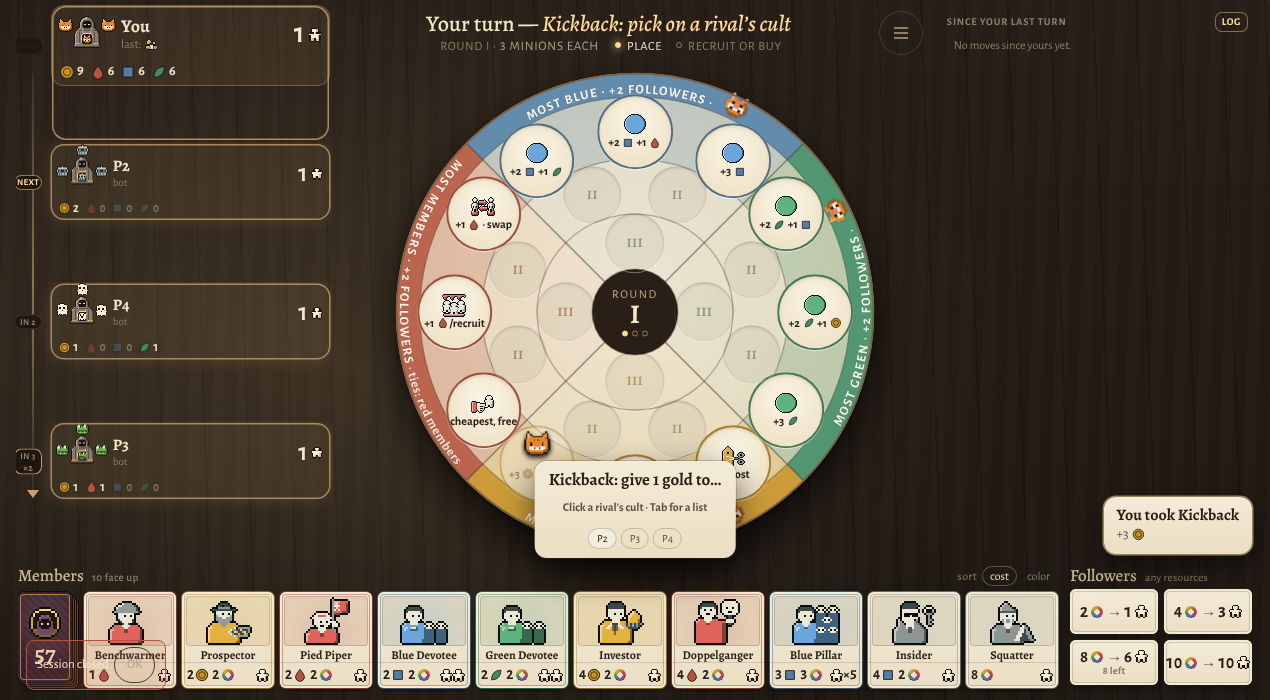
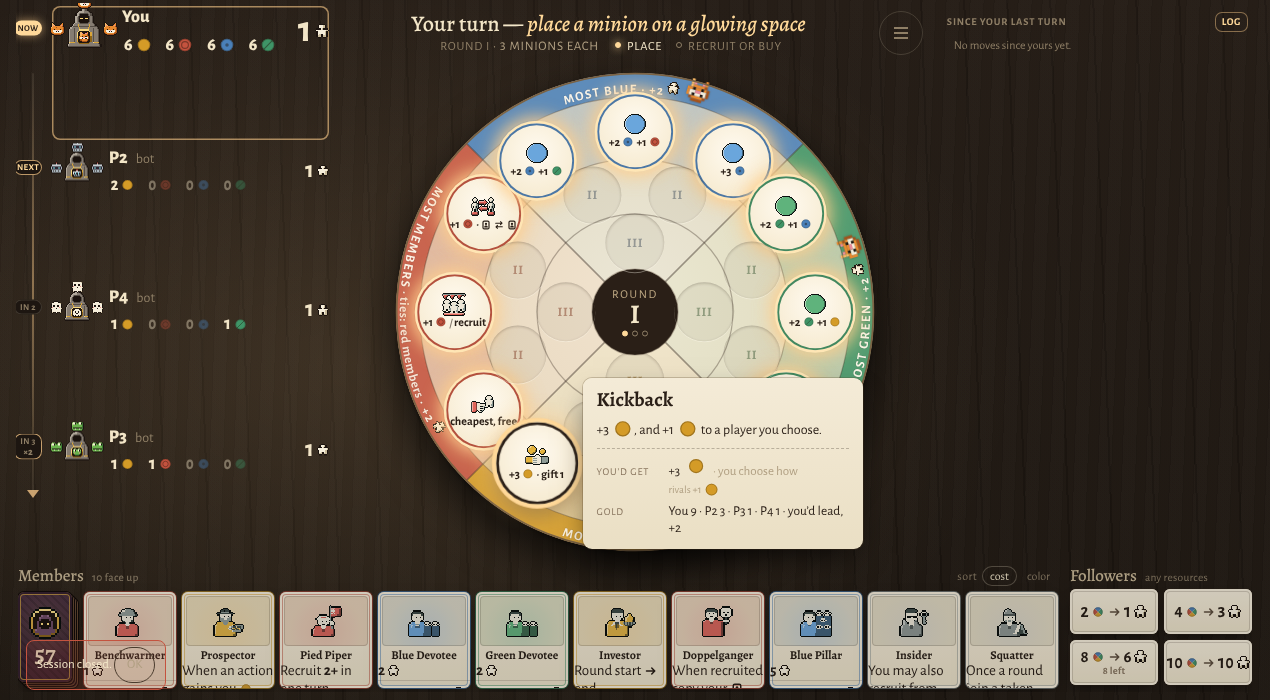
How we work: checkpoints go to the PR branch (Cory)
Claude-Session: https://claude.ai/code/session_017rw3aQa9iJEjdvvwQLY84z

diff --git a/src/v4/game/Wheel.jsx b/src/v4/game/Wheel.jsx
@@ -1,7 +1,11 @@
 // The board: a printed paper wheel of 4 quadrants (the Lamplit Table). Outer ring = round I, middle = round II,
 // inner = round III. It still spins (drag, arrow keys, a sideways swipe), but everything on it stays upright and
-// nothing else on screen changes with its orientation. Two looks for the spaces (Cory picks; `?spaces=engraved`):
-//  - sockets (default): each space is a cream socket with its picture, name and yield;
+// nothing else on screen changes with its orientation. The looks for the spaces (`?spaces=<look>`):
+//  - panels (default; the visual language, plate 1b, design/prototypes/language/): a dark board where each ring's
+//    spaces tile their quadrant as flat paper wedges, each with the action's small picture above its effect (the
+//    number first and biggest) and one line of small print where the big line can't say it all. No names. Taken: the
+//    panel dims and the minion stands where the picture was. Locked: a faint outline, "opens in round N".
+//  - sockets (`?spaces=sockets`, the old look until Cory has played the new one): a cream socket per space;
 //  - engraved (design/prototypes/actions option 3): each space is a cell of its ring printed into the paper, washed
 //    in the quadrant's ink, with a one-ink stamp of its picture, its name in small capitals and its yield beneath.
 //  - any face in ./faces/ (`?spaces=<name>`, lab: `?lab=faces&face=<name>`): the face draws inside each space's box;
@@ -26,6 +30,9 @@ import { Rich } from './Rich.jsx';
 import { shortEffect, pipEffect } from '../shorts.js';
 import { Follower } from '../art/Follower.jsx';
 import { lookFromUrl, useFace, boxOf, faceStatus, FaceBox, BUILT_IN } from './faces/index.js';
+import { panelText, fineText } from './panelText.js';
+import { Mark, Op, ResourceGlyph } from './Glyphs.jsx';
+import { Pip } from './Rich.jsx';
 import { MO, spinEase } from '../motion.js';
 
 // sockets: discs toward the outer edge of their ring, so a name never runs into a neighbour at any board size
@@ -33,7 +40,10 @@ const RING_S = { 1: { r0: 128, r1: 180, r: 151, n: 3, span: 66 }, 2: { r0: 82, r
 // engraved: the cells tile each quadrant (ring I: three 30° cells, ring II: two 45° cells, ring III: one 90° cell)
 // (the hub shrinks so the one wide ring-III cell can hold its name, stamp and yield at 12px or more)
 const RING_E = { 1: { r0: 126, r1: 180, r: 153, n: 3, span: 60 }, 2: { r0: 78, r1: 126, r: 102, n: 2, span: 45 }, 3: { r0: 22, r1: 78, r: 51, n: 1, span: 0 } };
-const ringsOf = look => (look === 'engraved' ? RING_E : RING_S);
+// panels: the cells tile each quadrant like engraved's, on a dark board with gutters between them; r is where each
+// panel's print is centred (ring III's a little out from the middle of its wedge, where the wedge is wide)
+const RING_P = { 1: { r0: 130, r1: 179, r: 154.5, n: 3, span: 60 }, 2: { r0: 79, r1: 127, r: 103, n: 2, span: 45 }, 3: { r0: 25, r1: 75, r: 53, n: 1, span: 0 } };
+const ringsOf = look => (look === 'engraved' ? RING_E : look === 'panels' ? RING_P : RING_S);
 const RIM = { r0: 180, r1: 200, r: 190 }; // the rim band: each quadrant's rule, engraved
 // the rim's hover/tap target: from just outside ring I's sockets to well past the paper's edge (it wins over any space)
 const RIM_HIT = { r0: 181, r1: 216 };
@@ -152,6 +162,128 @@ export const clauses = text => String(text || '').split(/ · |, (?=\S)| (?=[+−
  *  → ⇄ ↻ × and a joined "/" (per). Every mark is drawn once, in Glyphs.jsx, and shared with every other text. */
 export function Marked({ text }) {
   return <Rich text={String(text || '')} />;
+}
+
+// ---------- panels (the default look): the visual language's flat wedges, plate 1b ----------
+const PANEL_GUT = 4, PANEL_RC = 4; // the gutter between neighbouring panels and their corner, in board units
+/** A ring cell as the plate draws it: straight, parallel gutters (`gut` wide) and rounded corners (`rc`). */
+function panelPath(a0, a1, r0, r1, gut = PANEL_GUT, rc = PANEL_RC) {
+  const h = gut / 2, deg = x => (x * 180) / Math.PI;
+  const s0 = r => a0 + deg(Math.asin(h / r)), s1 = r => a1 - deg(Math.asin(h / r));
+  const O0 = polar(s0(r1), r1), O1 = polar(s1(r1), r1), I1 = polar(s1(r0), r0), I0 = polar(s0(r0), r0);
+  const along = (A, B, d) => { const L = Math.hypot(B[0] - A[0], B[1] - A[1]); return [A[0] + ((B[0] - A[0]) * d) / L, A[1] + ((B[1] - A[1]) * d) / L]; };
+  const f = p => `${p[0].toFixed(2)} ${p[1].toFixed(2)}`;
+  return ['M', f(along(I0, O0, rc)), 'L', f(along(O0, I0, rc)),
+    'Q', f(O0), f(polar(s0(r1) + deg(rc / r1), r1)),
+    'A', r1, r1, 0, 0, 1, f(polar(s1(r1) - deg(rc / r1), r1)),
+    'Q', f(O1), f(along(O1, I1, rc)),
+    'L', f(along(I1, O1, rc)),
+    'Q', f(I1), f(polar(s1(r0) - deg(rc / r0), r0)),
+    'A', r0, r0, 0, 0, 0, f(polar(s0(r0) + deg(rc / r0), r0)),
+    'Q', f(I0), f(along(I0, O0, rc)), 'Z'].join(' ');
+}
+/** The widest upright box of height h centred at (cx, cy) that stays `pad` clear of a panel's edges (radii r0..r1,
+ *  angles a0..a1 in degrees, 0 = top, clockwise, as it sits on screen). Board units; the half-width comes back. */
+export function fitHalfWidth(cx, cy, h, r0, r1, a0, a1, pad) {
+  const t0 = ((a0 - 90) * Math.PI) / 180, t1 = ((a1 - 90) * Math.PI) / 180;
+  const u0 = [Math.cos(t0), Math.sin(t0)], u1 = [Math.cos(t1), Math.sin(t1)];
+  const ok = (x, y) => {
+    const dx = x - CX, dy = y - CY, r = Math.hypot(dx, dy);
+    if (r < r0 + pad || r > r1 - pad) return false;
+    return u0[0] * dy - u0[1] * dx >= pad && u1[0] * dy - u1[1] * dx <= -pad;
+  };
+  const fits = w => {
+    for (let k = 0; k <= 6; k++) {
+      const x = cx - w + (2 * w * k) / 6, y = cy - h / 2 + (h * k) / 6;
+      if (!ok(x, cy - h / 2) || !ok(x, cy + h / 2) || !ok(cx - w, y) || !ok(cx + w, y)) return false;
+    }
+    return true;
+  };
+  if (!fits(0.5)) return 0;
+  let lo = 0.5, hi = 110;
+  for (let k = 0; k < 18; k++) { const m = (lo + hi) / 2; if (fits(m)) lo = m; else hi = m; }
+  return lo;
+}
+
+const PANEL_RES = new Set(['gold', 'red', 'blue', 'green', 'magenta', 'silver', 'yellow', 'purple', 'white', 'any']);
+const PANEL_MARK = { '@m': 'member', '@r': 'rival', '@n': 'minion', '@t': 'turn' };
+const PANEL_TOK = /@[mrfnt]|[+−-]?\d+|×(?:\d+|½)|½|≤\d+|[/→⇄·]|[A-Za-z’'?;,.!-]+|\s+|./g;
+const tokKind = t => (/^\s+$/.test(t) ? 'sp' : /^(?:[+−-]?\d+|×(?:\d+|½)|½|≤\d+)$/.test(t) ? 'n' : t === '/' || t === '·' ? 'op'
+  : t === '→' || t === '⇄' || PANEL_MARK[t] || t === '@f' || PANEL_RES.has(t) ? 'g' : 'w');
+const panelToks = text => [...String(text || '').matchAll(PANEL_TOK)].map(m => m[0]);
+/** One line of a panel in the grammar's form: numbers heavy, resources as dots, @m/@r/@n/@t/@f as marks, / and ×
+ *  typed quietly; a number sits right against the glyph it counts ("+3●"). */
+export function Said({ text }) {
+  const toks = panelToks(text);
+  const out = [];
+  toks.forEach((t, k) => {
+    const kind = tokKind(t);
+    if (kind === 'sp') {
+      const pk = k ? tokKind(toks[k - 1]) : null, nk = k + 1 < toks.length ? tokKind(toks[k + 1]) : null;
+      if (pk && nk && pk !== 'op' && nk !== 'op' && !(pk === 'n' && nk === 'g')) out.push(' ');
+      return;
+    }
+    if (kind === 'n') out.push(<b key={k} className="n">{t}</b>);
+    else if (kind === 'op') out.push(<Op key={k} t={t} />);
+    else if (t === '→') out.push(<Mark key={k} k="arrow" />);
+    else if (t === '⇄') out.push(<Mark key={k} k="swap" />);
+    else if (PANEL_MARK[t]) out.push(<Mark key={k} k={PANEL_MARK[t]} />);
+    else if (t === '@f') out.push(<Follower key={k} size={12} title="follower" />);
+    else if (PANEL_RES.has(t)) out.push(<Pip key={k} color={t} />);
+    else out.push(t);
+  });
+  return <>{out}</>;
+}
+/** A line's width in ems of its own type (the font measured once per word, a glyph .9em, a gap .25em). */
+function saidEm(text, weight = 700) {
+  let w = 0;
+  const toks = panelToks(text);
+  toks.forEach((t, k) => {
+    const kind = tokKind(t);
+    if (kind === 'sp') w += 0.25;
+    else if (kind === 'g') w += 0.92;
+    else if (kind === 'op') w += 0.55;
+    else w += rimWidth(t, kind === 'n' ? 800 : weight, 0);
+    if (kind === 'sp' && k && tokKind(toks[k - 1]) === 'n' && k + 1 < toks.length && tokKind(toks[k + 1]) === 'g') w -= 0.25;
+  });
+  return w;
+}
+// the type and the picture on a panel, in screen pixels (the number at least 16, the small print at least 12)
+const PANEL_PX = { pic: 20, big: 20, bigMin: 16, fine: 12, fineLine: 13, gap: 2 };
+/**
+ * How a panel's print lays out in the room it has: the big line on one line or a clause a line, the small print on
+ * one or two lines or not at all (it's always in the hover). Returns { bigLines, fineLines, big (px), w (board
+ * units: the box's width) }. `k` is screen pixels per board unit.
+ */
+function panelLayout({ s, R, rot, k, big, fine }) {
+  const [x0, y0] = polar(s.ang, R.r);
+  const r = (rot * Math.PI) / 180;
+  const cx = CX + (x0 - CX) * Math.cos(r) - (y0 - CY) * Math.sin(r), cy = CY + (x0 - CX) * Math.sin(r) + (y0 - CY) * Math.cos(r);
+  const a0 = s.ang - s.half + rot, a1 = s.ang + s.half + rot;
+  const pad = PANEL_GUT / 2 + 2.5;
+  const room = hPx => 2 * fitHalfWidth(cx, cy, hPx / k, R.r0, R.r1, a0, a1, pad);
+  const clauseList = clauses(big);
+  const bigEm = saidEm(big, 500), clauseEm = Math.max(...clauseList.map(c => saidEm(c, 500)));
+  const fineEm = fine ? saidEm(fine, 700) : 0;
+  const longestWord = fine ? Math.max(...String(fine).split(/\s+/).map(t => saidEm(t, 700))) : 0;
+  const { pic, gap, fineLine } = PANEL_PX;
+  const tries = [];
+  for (const bp of [PANEL_PX.big, 18, PANEL_PX.bigMin]) {
+    for (const bl of clauseList.length > 1 ? [1, 2] : [1]) {
+      for (const fl of fine ? [1, 2, 0] : [0]) tries.push({ bp, bl, fl });
+    }
+  }
+  // prefer the biggest number, then the small print shown, then fewer lines
+  tries.sort((a, b) => b.bp - a.bp || (b.fl > 0) - (a.fl > 0) || a.bl - b.bl || a.fl - b.fl);
+  for (const t of tries) {
+    const h = pic + gap + t.bl * t.bp + (t.fl ? gap + t.fl * fineLine : 0);
+    const needBig = (t.bl === 1 ? bigEm : clauseEm) * t.bp;
+    const needFine = t.fl === 0 ? 0 : t.fl === 1 ? fineEm * PANEL_PX.fine : Math.max(longestWord, fineEm * 0.62) * PANEL_PX.fine;
+    const w = room(h + 4) * k;
+    if (w >= Math.max(needBig, needFine, pic) + 2) return { bigLines: t.bl, fineLines: t.fl, big: t.bp, w: w / k };
+  }
+  const t = tries[tries.length - 1];
+  return { bigLines: clauseList.length > 1 ? 2 : 1, fineLines: 0, big: PANEL_PX.bigMin, w: Math.max(room(pic + gap + 2 * t.bp), 20 / k) / (1 || 1) };
 }
 
 // Is the person driving with the keyboard? Focus moved to a space on its own (your turn begins) opens its card only

diff --git a/src/v4/shorts.js b/src/v4/shorts.js
@@ -4,43 +4,44 @@
 // Keys are "<sphere id>.<action key>". A space with no entry here falls back to its first clause (shortEffect).
 const S = {
   gold: {
-    jv: '+3 gold · gift 1', rush: r => `+${2 * r} gold`, discount: '−4 cost', steal: 'steal 3 gold', windfall: '+1 gold/member', strike: 'double gold',
+    jv: '+3 gold · gift 1', rush: r => `+${2 * r} gold`, discount: '−4 cost', steal: 'steal 3 gold', windfall: '+1 gold/@m', strike: '×2 gold',
   },
   red: {
-    evenswap: '+1 red · swap', turnout: '+1 red/recruit', hire: 'cheapest, free', hireup: 'member ≤4, free', trade: 'swap a member', take: 'any member, free',
+    evenswap: '+1 red · @m ⇄ @m', turnout: '+1 red/recruit', hire: 'cheapest, free', hireup: '@m ≤4, free', trade: '@m ⇄ @r', take: 'any @m, free',
   },
   blue: { a1: '+3 blue', a2: '+2 blue +1 red', a3: '+2 blue +1 green', a4: '+5 blue', a5: '+4 blue +1 gold', a6: '+8 blue' },
   green: { a1: '+3 green', a2: '+2 green +1 gold', a3: '+2 green +1 blue', a4: '+5 green', a5: '+4 green +1 red', a6: '+8 green' },
   purple: {
-    hourly: r => `+${3 + r} purple`, catchup: '+1 purple, +2/rival', windup: '+1 purple/minion', planahead: '+1 purple/left', overtime: 'pay 8: 2 turns', rally: 'purple → turns',
+    hourly: r => `+${3 + r} purple`, catchup: '+1 purple, +2/@r', windup: '+1 purple/@n', planahead: '+1 purple/left', overtime: '8 purple → @t@t', rally: 'purple → @t',
   },
   silver: {
-    toast: r => `+${3 * r} silver · all +1`, gift: '+2 silver +2 · share', alms: '+4 silver · give 2', tongue: '+4 silver · swap', tide: 'half the richest', jubilee: 'silver → followers',
+    toast: r => `+${3 * r} silver · all +1`, gift: '+2 silver +2 · share', alms: '+4 silver · give 2', tongue: '+4 silver · swap', tide: 'half the richest', jubilee: 'silver → @f',
   },
   yellow: {
     harvest: '+1 yellow/color', bloom: '+1 each missing', transmute: 'swap 3 · +1 yellow', prism: '+1 each/3 yellow', gather: '1 per member', flourish: '+1 each/set',
   },
   market: {
-    bargain: '+2 blue · recruit', restock: '+2 blue · new row', showroom: '+1 blue, +1/face-up blue', clearance: 'half-price buy', pricecheck: 'blue = ½ priciest', spree: 'buy 3 times',
+    bargain: '+2 blue · recruit', restock: '+2 blue · new row', showroom: '+1 blue, +1/face-up blue', clearance: 'half-price buy', pricecheck: 'blue = ½ priciest', spree: 'buy ×3',
   },
   thieves: {
     pickpocket: r => `steal ${r + 1}`, tipoff: 'steal 1 each richer', hideout: 'steal 1 · safe', rob: 'steal 3', ransom: 'ransom a member', heist: 'steal a member',
   },
   trading: {
-    haggle: '+2 white +1/leader', buylow: r => `${2 * r} → followers`, pawn: r => `${r} follower or +${2 * r} white`, sellhigh: 'sell 2 for 6 white', dividend: '+1 white/loose follower', boom: 'all → followers',
+    haggle: '+2 white +1/leader', buylow: r => `${2 * r} → @f`, pawn: r => `${r} follower or +${2 * r} white`, sellhigh: 'sell 2 for 6 white', dividend: '+1 white/loose follower', boom: 'all → @f',
   },
   echo: { hum: '+3 green', chant: r => `+${2 * r} green`, echo: 'copy a rival', encore: 'copy any', refrain: '+2 green · copy yours', eternity: 'copy all yours' },
 };
 
 // The shortest form, for the engraved look's narrow inner rings: pips and marks instead of words wherever a glyph
-// will do. @m is a member, @r a rival, @f a follower (Wheel draws them); resource words still become pips.
+// will do. @m is a member, @r a rival, @f a follower, @n a minion, @t an extra turn; → ⇄ × and a joined / (per)
+// are the plate's marks too (Rich draws them all); resource words still become pips.
 const PIPS = {
   gold: { steal: '@r → 3 gold', windfall: '+1 gold/@m', strike: '×2 gold' },
   red: { hireup: '@m ≤4 free', trade: '@m ⇄ @r', take: 'any @m free' },
-  purple: { overtime: '8 purple → 2 turns' },
+  purple: { overtime: '8 purple → @t@t' },
   silver: { tide: '½ richest', jubilee: 'silver → @f' },
   yellow: { gather: '+1/@m' },
-  market: { clearance: '½ price', spree: '3 buys' },
+  market: { clearance: '½ price', spree: 'buy ×3' },
   thieves: { rob: '@r → 3 any', ransom: 'ransom @m', heist: 'take @r @m' },
   trading: { sellhigh: '2 @f → 6 white', dividend: '+1 white/@f', boom: 'all → @f' },
   echo: { refrain: '+2 green · copy', eternity: 'copy all' },

diff --git a/src/v4/lamp.css b/src/v4/lamp.css
@@ -95,6 +95,28 @@ h1,h2,h3{font-family:var(--serif)}
     transform:translateY(calc(var(--slot, 0) * (100% + 6px)));transition:transform var(--mo-sort, .6s) cubic-bezier(.3,.7,.4,1),box-shadow var(--mo-dim, .3s),background var(--mo-dim, .3s);
     /* clipped to its slot, except the rail gutter on its left where its turn marker sits */
     min-height:0;min-width:0;overflow:visible;clip-path:inset(-3px -3px -3px -36px);border-radius:14px;padding:5px 7px;background:rgba(243,230,200,.03);box-shadow:inset 0 0 0 1px rgba(243,230,200,.07);transition:box-shadow var(--mo-dim),background var(--mo-dim)}
+  /* each chair as the approved plate's seat panel (design/prototypes/language/plate1b.png): the seat ground, an 8px
+     corner, a hairline; the leader beside the name and what it holds (number, then dot), the total big on the right;
+     then its members, then what they make each round and what it just took */
+  .lt > .lt-seat{background:var(--seat, #221a15);box-shadow:inset 0 0 0 1px var(--hair, rgba(242,232,210,.10));border-radius:8px;padding:8px 12px}
+  .lt > .lt-seat.now{background:color-mix(in srgb,var(--seat, #221a15) 88%,rgb(var(--lamp)));box-shadow:inset 0 0 0 1px rgba(var(--lamp),.45)}
+  .lt > .lt-seat > .lt-cult-seat{display:grid;grid-template-columns:auto minmax(0,1fr) auto;grid-template-rows:auto auto;column-gap:10px;row-gap:6px;align-items:center;
+    padding:0;background:none;box-shadow:none;max-width:none}
+  .lt > .lt-seat .cs-head{grid-column:1 / -1;grid-row:1 / 3;display:grid;grid-template-columns:subgrid;grid-template-rows:subgrid;align-items:center;min-height:0}
+  .lt > .lt-seat .cs-head .cs-leader{grid-column:1;grid-row:1 / 3}
+  .lt > .lt-seat .cs-head .cs-who{grid-column:2;grid-row:1;flex-direction:row;align-items:baseline;gap:8px}
+  .lt > .lt-seat .cs-head .cs-total{grid-column:3;grid-row:1 / 3;align-self:center}
+  .lt > .lt-seat .cs-foot{grid-column:2 / 4;grid-row:2;z-index:1;justify-self:start;pointer-events:auto}
+  .lt > .lt-seat .cs-crowd{grid-column:1 / -1;grid-row:3}
+  .lt > .lt-seat .cs-build{grid-column:1 / -1;grid-row:4}
+  .lt > .lt-seat .cs-who b{font-family:var(--sans);font-weight:800;font-size:18px;line-height:22px}
+  .lt > .lt-seat .cs-who small{font-size:14px;color:var(--cream-3)}
+  .lt > .lt-seat .cs-total{font-family:var(--sans);font-weight:800;font-size:20px;letter-spacing:-.01em}
+  .lt > .lt-seat.mine .cs-total{font-size:32px}
+  .lt > .lt-seat .cs-res{gap:14px}
+  .lt > .lt-seat .cs-stack{flex-direction:row-reverse;gap:3px;font-family:var(--sans);font-weight:800;font-size:16px}
+  .lt > .lt-seat.mine .cs-stack{font-size:18px}
+  .lt > .lt-seat .cs-stack.zero{opacity:.4}
   /* the right column: the turns since yours, from the top (the turn card tells the live turn at its foot) */
   .app.game.lt > .lt-since{grid-column:3;grid-row:1 / 4;align-self:start;max-height:calc(100% - 120px)}
   /* you, wherever you land: a cream edge */

diff --git a/src/v4/game/faces/index.js b/src/v4/game/faces/index.js
@@ -70,13 +70,16 @@
 //                 degrees (0 = top, clockwise), radii from the wheel's centre (200,200), in WHEEL coordinates, not
 //                 the box's, unturned (the wheel turns it). For cells, cups, washes, hatching. No text: it turns.
 //
-// Built-in looks: 'sockets' (the default: nothing changes for players) and 'engraved' stay drawn by the Wheel itself.
+// Built-in looks, drawn by the Wheel itself: 'panels' (the default since 2026-10-15: plate 1b's flat wedge panels),
+// 'sockets' (the old look, kept until Cory has played the new one) and 'engraved'.
 // ============================================================================================================
 
 import { createElement, useEffect, useState } from 'react';
 
 /** The looks the Wheel draws itself. */
-export const BUILT_IN = ['sockets', 'engraved'];
+export const BUILT_IN = ['sockets', 'engraved', 'panels'];
+/** The look a table wears when `?spaces=` names none. */
+export const DEFAULT_LOOK = 'panels';
 
 /** The default box per ring, in board units (today's socket sizes). */
 export const DEFAULT_BOX = { 1: [60, 60], 2: [46, 46], 3: [50, 50] };
@@ -91,12 +94,12 @@ export const FACES = loaders;
 export const faceNames = () => [...BUILT_IN, ...Object.keys(loaders).sort()];
 export const isFace = name => !!name && Object.prototype.hasOwnProperty.call(loaders, name);
 
-/** Which look the spaces wear: `?spaces=<name>` when it names a built-in or a face file, else 'sockets'. */
+/** Which look the spaces wear: `?spaces=<name>` when it names a built-in or a face file, else the default (panels). */
 export function lookFromUrl() {
   try {
     const v = new URLSearchParams(globalThis.location?.search || '').get('spaces');
-    return v && (BUILT_IN.includes(v) || isFace(v)) ? v : 'sockets';
-  } catch { return 'sockets'; }
+    return v && (BUILT_IN.includes(v) || isFace(v)) ? v : DEFAULT_LOOK;
+  } catch { return DEFAULT_LOOK; }
 }
 
 const loaded = new Map();

diff --git a/src/v4/game/CultSeat.jsx b/src/v4/game/CultSeat.jsx
@@ -55,7 +55,7 @@ export default function CultSeat({ state, pid, me = null, mine = false, now = fa
         onPointerLeave={e => { if (e.pointerType === 'mouse' && hover) hover.onSeatHover(pid, null); }}
         onClick={e => openSeat(e, true)}
         onKeyDown={e => { if (e.key === 'Enter' || e.key === ' ') { e.preventDefault(); openSeat(e, true); } }}>
-        <span className={`cs-leader${react && react.leader ? ` react-${react.leader}` : ''}`}><LeaderRing state={state} id={pid} size={mine ? 32 : 28} minion={mine ? 15 : 13} compact /></span>
+        <span className={`cs-leader${react && react.leader ? ` react-${react.leader}` : ''}`}><LeaderRing state={state} id={pid} size={mine ? 40 : 30} minion={mine ? 15 : 13} compact /></span>
         <span className="cs-who">
           <b>{mine ? 'You' : p.name}</b>
           {place && <span className={`cs-order ${place.label.replace(' ', '-')}${place.twice ? ' twice' : ''}`} data-order={place.label} data-twice={place.twice ? '1' : undefined} title={place.title}><span className="co-t">{place.label}</span>{place.twice && <b className="co-x">×2</b>}</span>}
@@ -111,7 +111,7 @@ export default function CultSeat({ state, pid, me = null, mine = false, now = fa
             </span>
           )}
           {last && (
-            <span className="cs-took" data-took={last.name} title={`${mine ? 'You' : p.name} last took ${last.name} (${quadrant(last.qid).name})`}>
+            <span className="cs-last" data-took={last.name} title={`${mine ? 'You' : p.name} last took ${last.name} (${quadrant(last.qid).name})`}>
               <small>{mine ? 'you took' : 'just took'}</small><Sprite id={[`${last.qid}.${actionKey(last)}`, spriteId(last.name)]} kind="action" sphere={quadrant(last.qid).resource} size={12} title={last.name} /><b>{last.name}</b>
             </span>
           )}

diff --git a/src/v4/game/lamp-b.css b/src/v4/game/lamp-b.css
@@ -333,3 +333,11 @@
 .seat-card .seat-rank{font-size:12px;color:var(--paper-ink-3)}
 /* the rim's standings card opens with what its prize pays, in words */
 .lt-prize-line{margin:0 0 6px;font-size:13px;line-height:1.35;font-weight:700}
+
+/* a chair's build row (the plate's rival panel): what its members make each round, and what it just took */
+.lt-cult-seat .cs-build{display:flex;align-items:center;gap:14px;min-width:0;white-space:nowrap}
+.lt-cult-seat .cs-build .cs-income{margin-left:0}
+.lt-cult-seat .cs-build small{font-size:12.5px;font-weight:500;letter-spacing:0;color:var(--cream-3)}
+.lt-cult-seat .cs-build .cs-inc b{font-weight:800;font-size:15px;color:var(--cream)}
+.lt-cult-seat .cs-last{display:inline-flex;align-items:center;gap:5px;margin-left:auto;min-width:0;cursor:help}
+.lt-cult-seat .cs-last b{font-size:14px;font-weight:700;color:var(--cream);overflow:hidden;text-overflow:ellipsis}

diff --git a/.claude/rules/working-with-cory.md b/.claude/rules/working-with-cory.md
@@ -84,3 +84,4 @@ Reply style lives in the **Foreman** output style (`.claude/output-styles/forema
 - 2026-10-15 — Cory rejected three action looks and the card pod: "just variations on what exists … slapdash". Visual design never starts from today's components. Language first (a closed set of symbols and how they combine, type, grid), then ONE plate polished to the pixel and self-critiqued at 2×, then Cory. Agents handed the existing UI only produce variations of it.
 - 2026-10-15 — Cory: "what are the agents even critiquing?" Ten minutes of his play found ~24 things the AI panels missed. Diagnosis (design/eval/critic-calibration/diagnosis.md): testers drove the DOM, acted at agent speed with bots on Fast, wrote "top 8", and judged correctness instead of taste; their rubric even planted some of his complaints. Now critics see only the screen through scripts/v4-eyes.mjs, walk a heuristic checklist, list 40+ findings before a harsh grade, and a brief is trusted only at ≥80% recall on his latest play notes.
 - 2026-10-15 — Plate 2 replaced plate 1's approved wheel with bulky doorways, and Cory hated it. When Cory approves a direction and asks for one addition, change only that one thing and keep everything he approved identical. Show the addition in place, never a reinvention.
+- 2026-10-15 — Cory: "don't hold back the commits on my account." Checkpoints go straight to the PR branch, and the preview may show work in progress. Say in one line when a push is mid-change.
